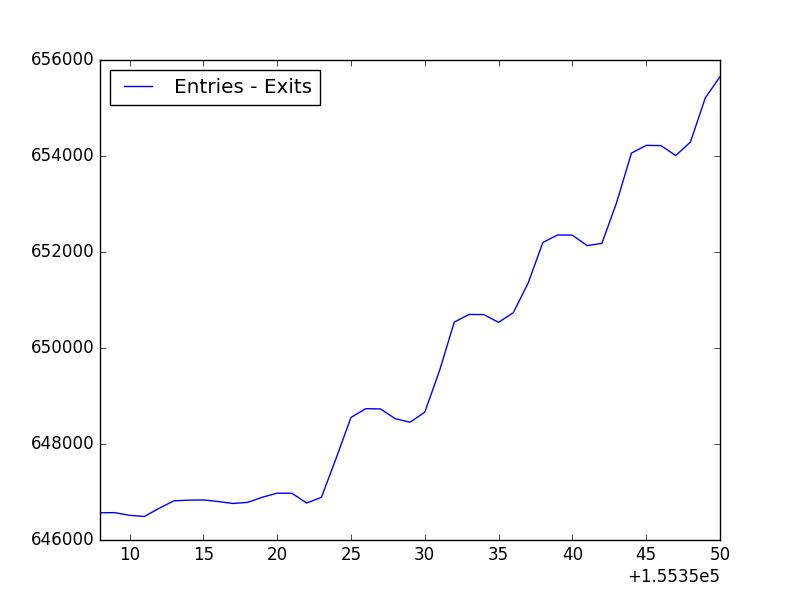
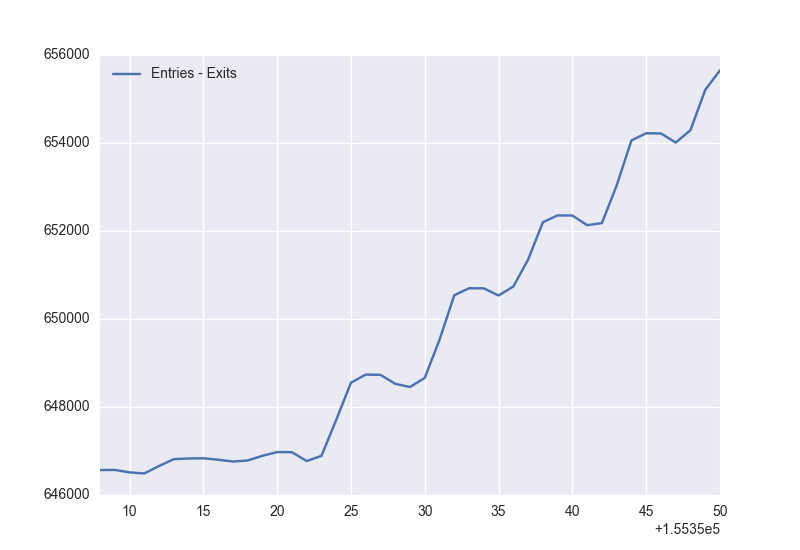
added honors programs

diff --git a/teaching/csci127/f18/psHC.html b/teaching/csci127/f18/psHC.html
@@ -234,10 +234,10 @@ Fall 2018<br><br>
 
 
 		<p> In <a href="lab7.html">Lab 7</a> (24 October), we introduced
-		<a href="https://opendata.cityofnewyork.us">NYC OpenData</a>.
+		<a href="https://opendata.cityofnewyork.us">NYC OpenData</a>.  As part of the OpenData initiative, the <a href="https://data.cityofnewyork.us/Transportation/MTA-Data/mmu8-8w8b">MTA</a> releases information about the subways, buses, and commuter trains.  To access the real-time data, MTA provides feeds (requires registration).  We will focus on the historical data stored about stations.
 
 		<p> THe MTA keeps track of the number of people entering and exiting each station via the <a href="http://web.mta.info/developers/turnstile.html">turnstiles</a>.  Readings of how many people entered and exited are measured every 4 hours.
-    Some stations measure the numbers at midnight, 4am, 8am, noon, 4pm, and 8pm.  Others are measured on slightly shifted schedules, but always 4 hours apart.  For example, the 68th Street-Hunter College station has each turnstile measured at 1am, 5am, 9am, 1pm, 5pm, and 9pm.  These numbers are recorded as running totals.  For example, here is the data from the 68th Street-Hunter College station for September 22:
+    Some stations measure the numbers at midnight, 4am, 8am, noon, 4pm, and 8pm.  Others are measured on slightly shifted schedules, but always 4 hours apart.  For example, the 68th Street-Hunter College station has each turnstile measured at 1am, 5am, 9am, 1pm, 5pm, and 9pm.  These numbers are recorded as cumulative running totals.  For example, here is some of the data from the 68th Street-Hunter College station for September 22:
 
 <pre>
 C/A,UNIT,SCP,STATION,LINENAME,DIVISION,DATE,TIME,DESC,ENTRIES,EXITS
@@ -250,7 +250,7 @@ R246,R177,00-00-00,68ST-HUNTER CO,6,IRT,09/22/2018,21:00:00,REGULAR,0026639975,0
 R246,R177,00-00-00,68ST-HUNTER CO,6,IRT,09/23/2018,01:00:00,REGULAR,0026640099,0015385542
 </pre>
 
-    <p> The last two entries on the lines are the entries and exits for that turnstile (in this case, the numbered <tt>00-00-00</tt>).  At 1am, the entry total was <tt>0026638604</tt> and the exit total was <tt>0015384642</tt>.  Four hours later, the entry total was <tt>0026638606</tt> and the exit total was <tt>0015384646</tt>.  So, over that 4-hour period, <tt>0026638606-0026638604 = 2</tt> people entered the station via that turnstile.  Similarly, 4 people left the station via that turnstile.
+    <p> The last two entries on the lines are the entries and exits for that turnstile (in this case, the numbered <tt>00-00-00</tt>).  At 1am, the entry total was <tt>0026638604</tt> and the exit total was <tt>0015384642</tt>.  Four hours later, the entry total was <tt>0026638606</tt> and the exit total was <tt>0015384646</tt>.  So, over that 4-hour period from 1am to 5am, <tt>0026638606-0026638604 = 2</tt> people entered the station via that turnstile.  Similarly, 4 people left the station via that turnstile.
 
     <p>Pick a turnstile in your station and make a plot of the number of entries and a plot of the number of exits for the week ending <a href="http://web.mta.info/developers/data/nyct/turnstile/turnstile_180901.txt">1 September 2018</a>.
 
@@ -258,24 +258,37 @@ R246,R177,00-00-00,68ST-HUNTER CO,6,IRT,09/23/2018,01:00:00,REGULAR,0026640099,0
     <ul>
        <li> If you have your turnstile data stored in a variable, <tt>turnsData</tt>, you can select the data for a single station (for example, <tt>68TH-HUNTER CO</tt>) with the command:
          <pre>
-           turnsData[ turnsData["STATION"] == "68ST-HUNTER CO" ]
-         </pre>
+turnsHunter = turnsData[ turnsData["STATION"] == "68ST-HUNTER CO" ]</pre>
         You can similarly select a single turns(for example, <tt>00-00-01</tt>) with <tt>turnsHunter</tt> and the column name <tt>SCP</tt>.
-      <li> Some of the data files had extra spaces after "EXITS".  Pandas thinks those spaces are part of the name of your column.  You can either include the spaces (i.e. "EXITS   ") or you can edit the CSV file and remove the trailing spaces and safe the file.
+      <li> Some of the data files had extra spaces after "EXITS".  Pandas thinks those spaces are part of the name of your column.  You can either include the spaces (i.e. "EXITS   ") or you can edit the CSV file and remove the trailing spaces and save the revised file.
       <li> You can create a column that contains the difference between the entries and exits at each time point with:
         <pre>
-          myTurns["Entries - Exits"] = myTurns["ENTRIES"] - myTurns["EXITS"]
-        </pre>
+myTurns["Entries - Exits"] = myTurns["ENTRIES"] - myTurns["EXITS"]</pre>
+      <li> The above plots, use the <a href="https://seaborn.pydata.org">Seaborn</a> package (can be downloaded as part of the Anaconda distribution or following the directions on their downloads page).  If you would like to use a similar palette, including the line with your imports:
+        <pre>
+          import seaborn as sns</pre>
+      will then change the default colors and templates to Seaborn.
     </ul>
 
-		<p> Submit your answer as a .pdf file.  Include in your .pdf:  the 3 plots and the total number of people who entered via your turnstile as well as the total number who exited via your turnstile over the week.
-
+		<p> Submit a .pdf file that includes the following:
+        <ul>
+          <li> The name of your station and the name of the turnstile you are using for your plots.
+          <li> Three plots for the week's data:
+              <ul>
+                  <li> the cumulative number of entries,
+                  <li> the cumulative number of exits, and
+                  <li> the difference of entries and exits.
+                </ul>
+          <li> Any patterns you noticed in the data (e.g. the plots above for turnstile <tt>00-00-00</tt> show that over the weekend it had similar number of people using it for entry and exit, but during the week if was used much more for entries).
+        </ul>
 	<hr>
 
 	<li > <b>HC 9:  Webpage</b> <b style="float:right">Due Date: 2 November</b>  <br>
 
 	<br>
 
+    <p><a href="https://streeteasy.com/blog/the-l-train-shutdown-explained-dates-details-closures/"><img height=300 src="LTrain_Impact_StreetEasy.jpg"><br>
+      StreetEasy</a>
 
 		<p> We are going to be using github to make webpages for your projects.  There will be only one site for each project, but we want everyone to set up there own page as a warm-up exercise.
 
@@ -298,21 +311,42 @@ R246,R177,00-00-00,68ST-HUNTER CO,6,IRT,09/23/2018,01:00:00,REGULAR,0026640099,0
 
 
 
-  <hr>
-<i>More details on HC 10-12 to come...</i>
-  <hr>
-
-    <hr>
-
-<!--
 	<li > <b>HC 10:  L-Train Demand During Morning Commute</b> <b style="float:right">Due Date: 9 November</b>  <br>
 
-		<br>
-		<img height = 125 src="nyc311.png">
+    <p><img src="turnstileEntryTotals.png" height=300>
+      <img src="turnstileExitTotals.png" height=300>
+      <br>(Entries and exits (all turnstiles) at 68th Street-Hunter College station for morning commute for the week ending 1 September 2018.)
 
-		<p> Make a program that takes a turnstile data file and makes a graph of the entries to the L-train stations on a given data.  The x-axis of your histogram should be the L-train stations, ordered west-to-east.  The bars in the historgram should be the number of people entering the station between 4am and 8am (i.e. subtract the cumulative total at 4am from the cumulative total at 8am).  Further, your program should highlight, in some fashion (e.g. bold in the labels or different color), your group's neighborhoods.
 
-		<p> Submit a .pdf file that contains graphs for a week of data (that is, an image for Monday, an image for Tuesday, an image for Wednesday, ... an image for Sunday) as well as the dates of the week displayed.
+		<p> Write a program that takes a weekly turnstile data file and makes a graph of <i>all the entries</i> and a graph of <i>all the exits</i> during the morning commute for your L-train station for that data.  The x-axis of your histogram should be the days of the week.  The bars in your plot should be the number of people entering the station between 5am and 9am (i.e. subtract the cumulative total at 5am from the cumulative total at 9am, or the closest 4-hour block measured for your station).  Similarly, the bars in the second plot should be the exits from your station over the week.
+
+    <p> Hints:
+      <ul>
+          <li> In HC 8, we focused on a single turnstile.  This program asks for <b>all the turnstiles</b> at your station aggegated together.
+            That is, for the morning commute of each day, you need the total number of entries (and exits) summed up across all the turnstiles.  Look at the dataFrame and identify the rows that you will need to compute this and select those to another dataFrame (like what we did in HC 8).
+          <li> Once you have retricted to your station, make two separate data frames, one containing the 5am rows for each turnstile (i.e. rows that have value <tt>== "5:00:00"</tt>) and the other containing the 9am, in a similar fashion to above.
+          <li> Some new pandas commands that are incredibly useful are:
+            <ul>
+              <li> <tt>groupby()</tt>:  which you can use to group rows with the same values
+              <li> <tt>sum()</tt>: will sum up the groups by your chosen columns
+            </ul>
+            For example,
+            <pre>
+entries = turnsHunter9.groupby(by = ['DATE'])['ENTRIES'].sum()-turnsHunter5.groupby(by = ['DATE'])['ENTRIES'].sum()</pre>
+            creates a new series (list) of those who entered each day at 9am and then subtracts off those who entered at 5am (assuming that <tt>turnsHunter9</tt> and <tt>turnsHunter5</tt> were selected as suggested above).
+
+            <li> Two more useful commands:
+              <ul>
+              <li> <tt>to_frame()</tt>:  will take the series (list) that results from <tt>sum()</tt> and convert it into a dataFrame (so we can then plot it in pretty ways)
+              <li> <tt>reset_index()</tt>:  fixes the column labels after the frame is created.
+            </ul>
+            For example,
+            <pre>
+en = entries.to_frame().reset_index()</pre>
+            converts the series above into a dataFrame and then resets the index.  Once done, the techniques for plotting dataFrames can be used for <tt>en</tt>.
+      </ul>
+
+		<p> Submit a .pdf file that contains the name of your station, as well as the plots for the morning commute entries and exits.
 
 	<hr>
 
@@ -345,38 +379,51 @@ R246,R177,00-00-00,68ST-HUNTER CO,6,IRT,09/23/2018,01:00:00,REGULAR,0026640099,0
 
 	<hr>
 
+
+
 	<li > <b>HC 12: Cachements for L-Train Stations</b> <b style="float:right">Due Date: 21 November</b>  <br>
 
 
-    <p><b>Make a Voronoi Diagram...  Change to be the subway cachements with and without the L-train stations.</b>
+      <p>A <a href="https://en.wikipedia.org/wiki/Voronoi_diagram">Voronoi diagram</a> divides a region based on the distance to a set of input points.  This simple idea has many applications, one of the most famous was the <a href="http://johnsnowbicentenary.lshtm.ac.uk/about-john-snow/">work of John Snow</a> to study the 1854 cholera outbreak.  Our focus will be on mapping access to public resources and transit.
 
-		<br>
-		<p><iframe frameborder="0" scrolling ="no" src="zoning2.html" width="80%" height="600" ></iframe>
+      <p>The sample program builds a Voronoi diagram will be for libraries across the city (using the
+      library data set from  <a href="https://data.cityofnewyork.us/Business/Library/p4pf-fyc4">NYC Library Locations</a> (download as CSV file).
+      Our map highlights the regions closest to each library:
 
+      <p>
+      <iframe src="../../seminar4/s17/libVor.html" style="width: 95%; height: 700px" name="internal"></iframe>
 
+      <p>To make our map, we
+      <ol>
+      	<li> First take library locations and calculate the Voronoi diagram (using the <a href="https://docs.scipy.org/doc/scipy/reference/generated/scipy.spatial.Voronoi.html">scipy</a> package).
+      	<li> While going row by row to get the library locations, add markers to the map (we're adding them as separate markers, not a MarkerCluster, since we don't want them to collapse when zooming out).
+      	<li> Show the plot in a matplotlib window to make sure its working (note:  if you have a separate matplotlib window you may need to close it, since the rest of the program is waiting until it's done to continue).
+      	<li> Then write out the locations as a geojson file (using the <a href="https://pypi.python.org/pypi/geojson">geojson</a>).
+      	<li> Load the regions in as a geoJSON layer in folium.
 
-		<p> We can use the city data to create a zoning map highlighting features.  The above map shades regions based on a value (these are often called <a href="https://en.wikipedia.org/wiki/Choropleth_map">choropleth maps</a>), with the regions being zoning districts and the coloring based on whether the district is primarily residential, commercial, or manufacturing.
+      </ol>
 
-		<p> The map was created with files from the city, augmented by adding an unique ID for each region, so, we could line up the geometric region with the zoning information (see <a href="https://stjohn.github.io/teaching/seminar4/s17/cw8.html">details</a>).  The underlying files are:
-		<ul>
-			<li> <a href="zoneMap.py">zoneMap.py</a> which creates an HTML map using the data files,
-			<li> <a href="zoningIDS.json">zoningIDs.json</a> which contains the geometry/shapes of the zoning districts (with unique IDs added), and
-			<li> <a href="zoneDist.csv">zoneDist.csv</a> which has the districts with zoning designation.
-		</ul>
+      <p>If you are using anaconda (either spyder, idle3, or jupyter), the scipy and matplotlib packages are included.  To install geojson, type at a terminal window:
+      <pre>
+      	pip install geojson
+      </pre>
 
-		For this group assignment, modify the Python file so that it creates an new zoning map with the following properties:
-		<ul>
-			<li> commercial and manufacturing (all non-residential zones) are marked as yellow (or, if you hate the current color scheme, the lightest color in your chosen color map).
-			<li> all regions that are low density (R1, R2, R3, and their variations in the <a href="https://www1.nyc.gov/site/planning/zoning/districts-tools/residence-districts-r1-r10.page">NYC zoning</a>) are orange.
-			<li> all regions with medium to high density (all other residential zoning designations) are red.
-		</ul>
+      <p> The program, <a href="../../seminar4/s17/makeVor.py">makeVor.py</a>, is a bit rambling, but contains all the steps above (a better design would be to split into separate functions or files for the different tasks).  Try running it on the library dataset (assumes that it is in the same folder as the program).
 
-		<p> Modify your program to make a second map where low and medium density housing are orange and only high density (R8, R9, and R10) are red.
+      <p>Note that it does very well in dense regions but has odd behavior on the edges of the map since we didn't include in the <tt>.json</tt> file any point at infinity and didn't clip the maps to the city boundaries.
 
-		<p> Submit a .pdf file with a screen capture image of your first HTML map (grouping together medium and high density) and your second HTML map (separating out high density) zoning.
+      <p>Modify the program to make to make two Voronoi diagrams:
+      <ul>
+      	<li> Make a Voronoi diagram of the <a href="https://data.cityofnewyork.us/Transportation/Subway-Stations/arq3-7z49">NYC subway stations</a>
+          (download as CSV).  (Despite the name of the file suggesting that it's from 2010, the file contains the new Second Avenue Subway stops).
+        <li> Make a Voronoi diagram of the <a href="https://data.cityofnewyork.us/Transportation/Subway-Stations/arq3-7z49">NYC subway stations</a>
+            <b>without the L-train stations that east of the tunnel</b> in the input file.
+      </ul>
+
+		<p> Submit a .pdf file with a screen capture image of your first HTML map (with all subway stations) and your second HTML map (without L-train stations east of the tunnel).  For each map, center the view on your station.
 
 	<hr>
--->
+
 	<li > <b>HC 13: Project Webpage</b> <b style="float:right">Due Date: 28 November</b>  <br>
 
 		<p> Submit the URL of your group presentation (the two slides for the presentation)  as part of a .pdf file.  If you have plans to add more to the website, include in the .pdf file any changes you have planned but didn't have a chance to enter yet.
@@ -400,7 +447,7 @@ R246,R177,00-00-00,68ST-HUNTER CO,6,IRT,09/23/2018,01:00:00,REGULAR,0026640099,0
 
 
 <div>
-<i style="float:right">(This file was last modified on 3 October 2018.)</i><br>
+<i style="float:right">(This file was last modified on 4 October 2018.)</i><br>
 </div>
 </body>
 </html>
